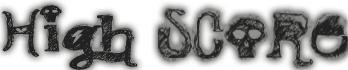
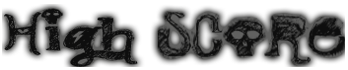
neue Gameover.gif

diff --git a/DugeonGeneration/src/core/DungeonFrame.java b/DugeonGeneration/src/core/DungeonFrame.java
@@ -26,12 +26,18 @@ import javax.swing.JPopupMenu;
 import java.awt.event.MouseAdapter;
 import java.awt.event.MouseEvent;
 import java.awt.event.WindowListener;
+import java.io.IOException;
+import java.lang.reflect.InvocationTargetException;
+
 import javax.swing.JMenuItem;
 import java.awt.Button;
 import java.awt.List;
+import java.awt.MediaTracker;
+
 import javax.swing.event.AncestorListener;
 import javax.swing.event.AncestorEvent;
 import javax.swing.border.BevelBorder;
+import javax.imageio.ImageIO;
 import javax.swing.BoxLayout;
 import java.awt.GridLayout;
 import java.awt.Insets;
@@ -47,6 +53,7 @@ import javax.swing.GroupLayout;
 import javax.swing.GroupLayout.Alignment;
 import javax.swing.LayoutStyle.ComponentPlacement;
 import javax.swing.SwingConstants;
+import javax.swing.SwingUtilities;
 import javax.swing.JTextPane;
 
 public class DungeonFrame extends JFrame {
@@ -135,10 +142,10 @@ public class DungeonFrame extends JFrame {
 			}
 			@Override
 			public void mouseExited(MouseEvent e) {
-				HighScore.setIcon(new ImageIcon(DungeonFrame.class.getResource("/images/background/Highscore2.png")));
+				HighScore.setIcon(new ImageIcon(DungeonFrame.class.getResource("/images/background/Highscore.png")));
 			}
 		});
-		HighScore.setIcon(new ImageIcon(DungeonFrame.class.getResource("/images/background/Highscore2.png")));
+		HighScore.setIcon(new ImageIcon(DungeonFrame.class.getResource("/images/background/Highscore.png")));
 		HighScore.setContentAreaFilled(false);
 		HighScore.setOpaque(false);
 		HighScore.setBorder(null);
@@ -148,12 +155,15 @@ public class DungeonFrame extends JFrame {
 		textField.setOpaque(false);
 		textField.setBorder(null);
 		
+	
+		
 		
 		GroupLayout gl_panel = new GroupLayout(panel);
 		gl_panel.setHorizontalGroup(
 			gl_panel.createParallelGroup(Alignment.LEADING)
 				.addGroup(gl_panel.createSequentialGroup()
-					.addGap(427)
+					.addGap(153)
+					.addPreferredGap(ComponentPlacement.RELATED)
 					.addGroup(gl_panel.createParallelGroup(Alignment.LEADING)
 						.addGroup(gl_panel.createSequentialGroup()
 							.addGap(86)
@@ -165,15 +175,17 @@ public class DungeonFrame extends JFrame {
 						.addGroup(gl_panel.createSequentialGroup()
 							.addGap(205)
 							.addComponent(textField, GroupLayout.PREFERRED_SIZE, 282, GroupLayout.PREFERRED_SIZE)))
-					.addContainerGap(282, Short.MAX_VALUE))
+					.addContainerGap(GroupLayout.DEFAULT_SIZE, Short.MAX_VALUE))
 		);
 		gl_panel.setVerticalGroup(
-			gl_panel.createParallelGroup(Alignment.TRAILING)
-				.addGroup(gl_panel.createSequentialGroup()
-					.addContainerGap(301, Short.MAX_VALUE)
-					.addComponent(GameStart, GroupLayout.PREFERRED_SIZE, 89, GroupLayout.PREFERRED_SIZE)
-					.addPreferredGap(ComponentPlacement.UNRELATED)
-					.addComponent(HighScore, GroupLayout.PREFERRED_SIZE, 70, GroupLayout.PREFERRED_SIZE)
+			gl_panel.createParallelGroup(Alignment.LEADING)
+				.addGroup(Alignment.TRAILING, gl_panel.createSequentialGroup()
+					.addContainerGap(34, Short.MAX_VALUE)
+					.addGroup(gl_panel.createParallelGroup(Alignment.TRAILING)
+						.addGroup(gl_panel.createSequentialGroup()
+							.addComponent(GameStart, GroupLayout.PREFERRED_SIZE, 89, GroupLayout.PREFERRED_SIZE)
+							.addPreferredGap(ComponentPlacement.UNRELATED)
+							.addComponent(HighScore, GroupLayout.PREFERRED_SIZE, 70, GroupLayout.PREFERRED_SIZE)))
 					.addGap(18)
 					.addComponent(textField, GroupLayout.PREFERRED_SIZE, 48, GroupLayout.PREFERRED_SIZE)
 					.addPreferredGap(ComponentPlacement.RELATED)
